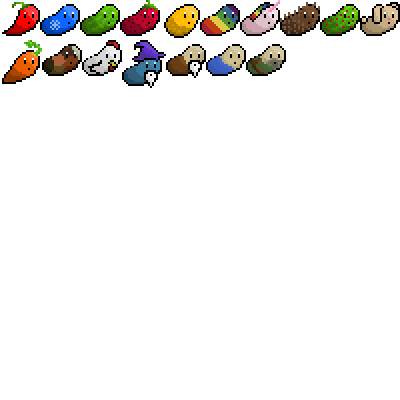
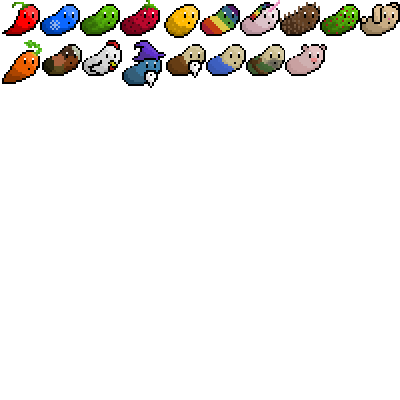
Added a pig bean

Changed region(s): [[0.69, 0.09, 0.84, 0.21]]

diff --git a/src/entities/entity_meta.py b/src/entities/entity_meta.py
@@ -23,7 +23,8 @@ entity_data = {
     "wizard": {"max_hp": 100, "moves": [0, 1], "attack": 10, "energy": 100, "display_name": "Wizard Bean"},
     "old_villager": {"max_hp": 100, "moves": [0, 1], "attack": 10, "energy": 100, "display_name": "Old Bean"},
     "tim": {"max_hp": 100, "moves": [0, 1], "attack": 10, "energy": 100, "display_name": "Tim"},
-    "fisherman": {"max_hp": 100, "moves": [0, 1], "attack": 10, "energy": 100, "display_name": "Fisherman"}
+    "fisherman": {"max_hp": 100, "moves": [0, 1], "attack": 10, "energy": 100, "display_name": "Fisherman"},
+    "pig": {"max_hp": 100, "moves": [0, 1], "attack": 10, "energy": 100, "display_name": "Pig"}
 }
 
 item_effects = {

diff --git a/src/entities/bean_image_loader.py b/src/entities/bean_image_loader.py
@@ -29,6 +29,7 @@ wizard = (122, 40, 44, 48)
 old_villager = (166, 40, 40, 40)
 tim = (206, 40, 40, 40)
 fisherman = (246, 40, 40, 40)
+pig = (285, 40, 42, 40)
 
 beans = {}
 
@@ -56,7 +57,8 @@ def load_sprite_sheet():
         "wizard": create_images(wizard),
         "old_villager": create_images(old_villager),
         "tim": create_images(tim),
-        "fisherman": create_images(fisherman)
+        "fisherman": create_images(fisherman),
+        "pig": create_images(pig)
     }
 
 
